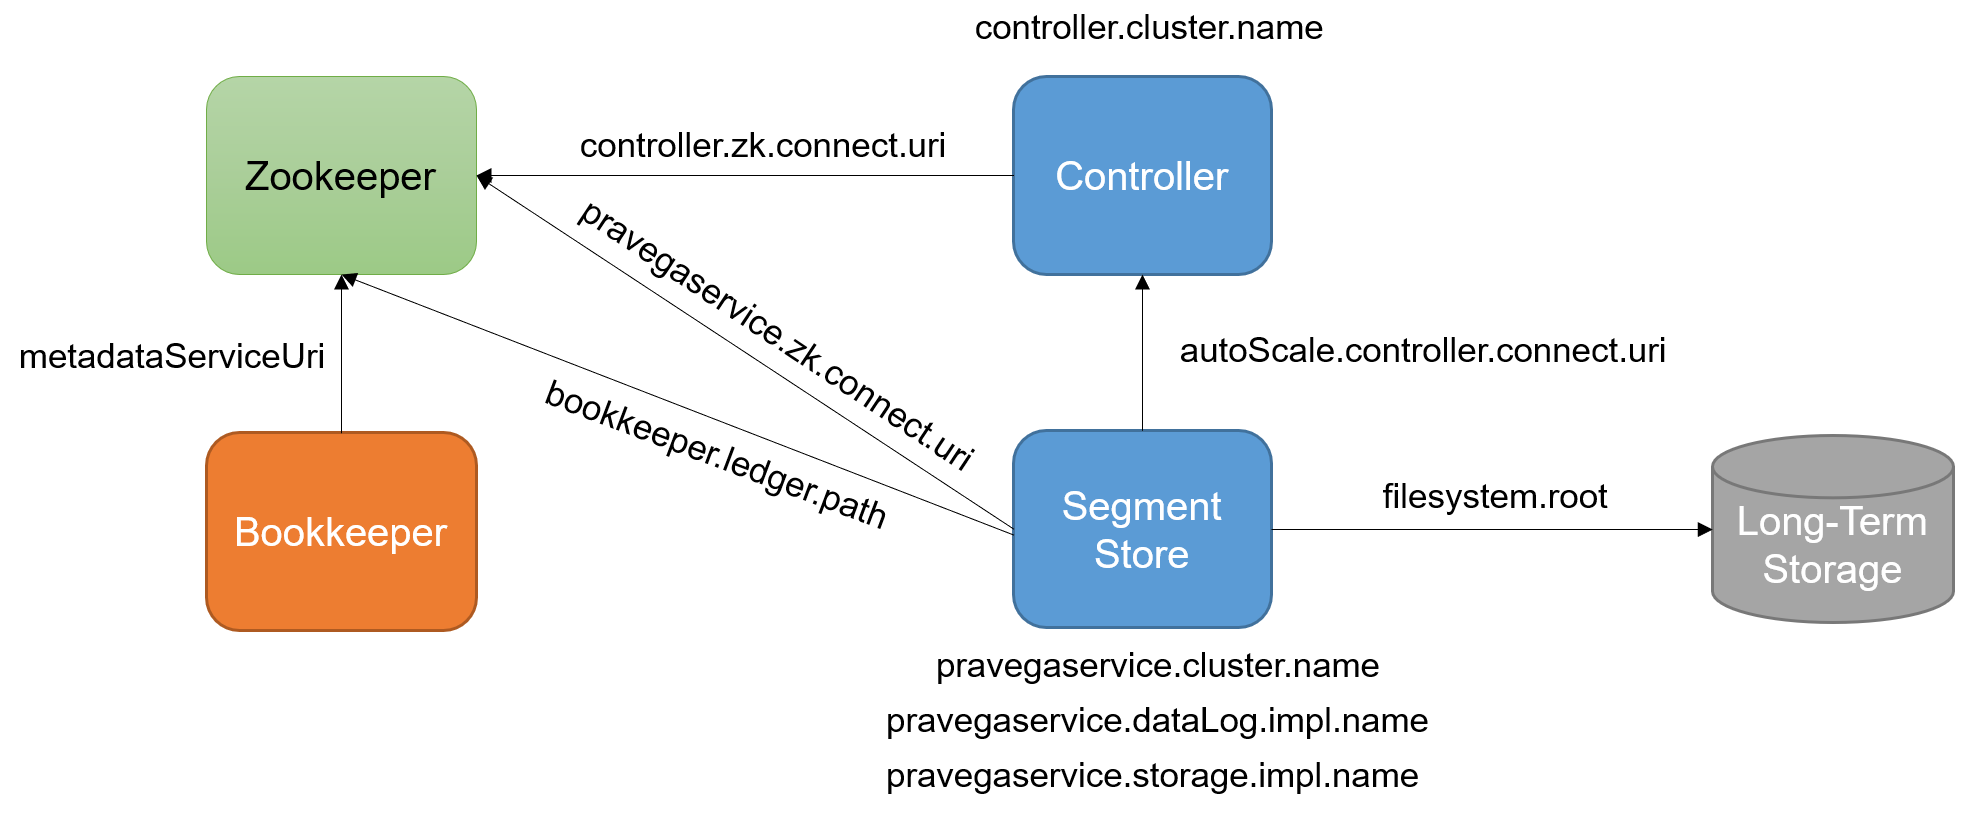
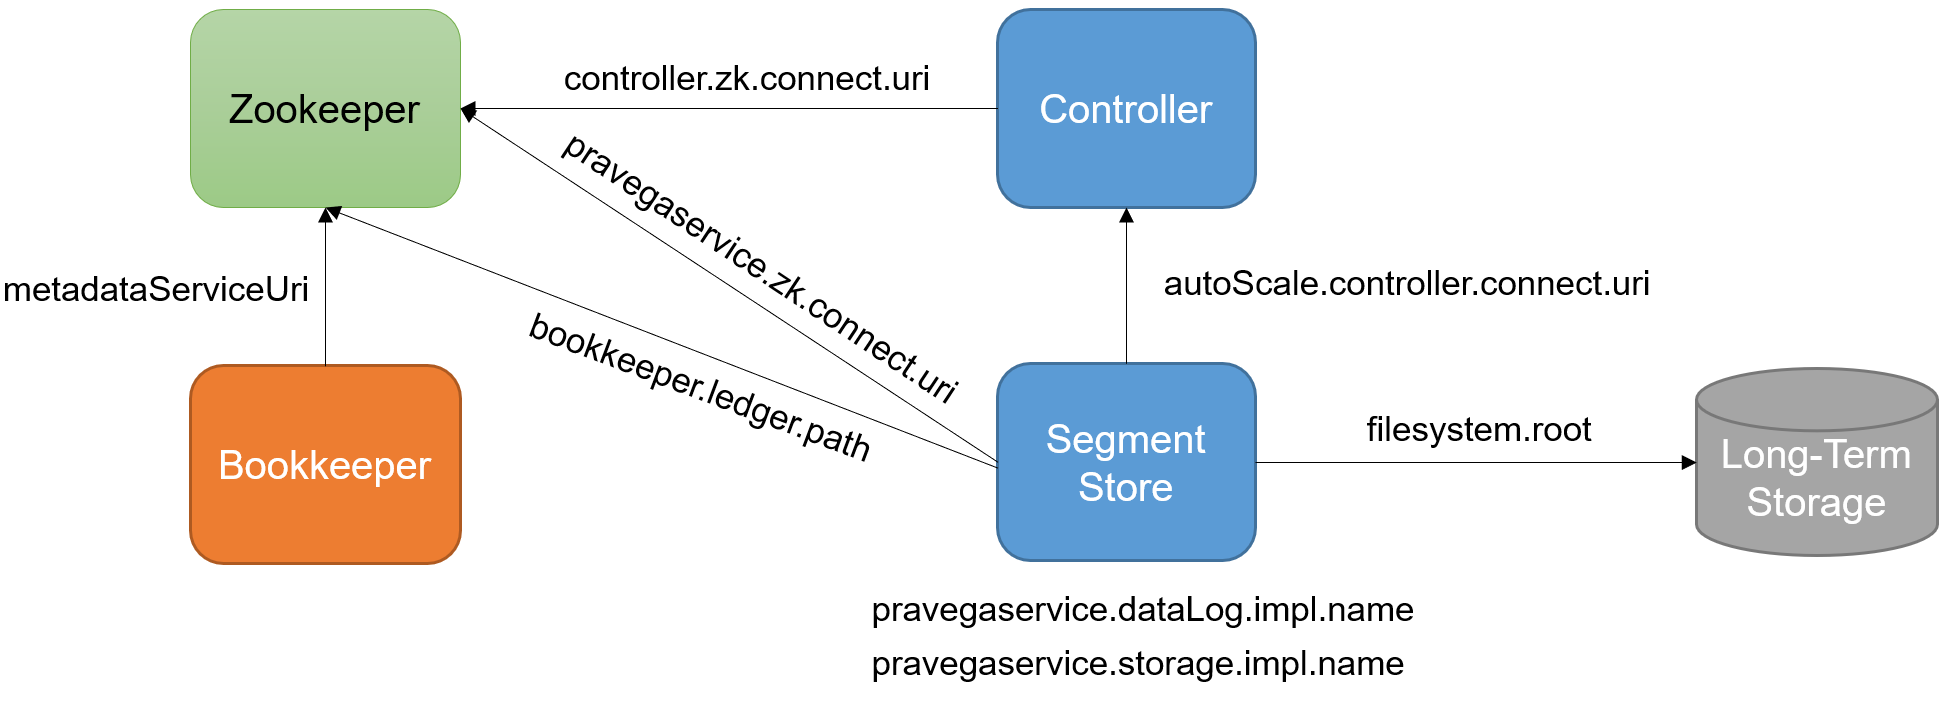
Working on Segment Store memory config

diff --git a/documentation/src/docs/configuration-and-provisioning.md b/documentation/src/docs/configuration-and-provisioning.md
@@ -162,9 +162,27 @@ which means that they would not be able to run IO. Therefore, we need to conside
 `[pravegaservice.container.count|controller.container.count]` is also imposing a limit on the maximum usable size of 
 the Pravega Cluster.   
 
-
-
 ## Segment Store Cache Size and Memory Settings
+
+In a Pravega Cluster, the Segment Store is perhaps the component that requires more effort in terms of memory configuration.
+A production-like cluster requires the memory settings to be defined correctly, or otherwise we could induce unnecessary
+instability in the system. In this section, the main configuration parameters we overview are the following:
+
+- **`pravegaservice.cache.size.max`**: Maximum size (in bytes) for the Local Shared Cache (shared by all Segment 
+Containers on this Segment Store instance). Valid values: Positive integer. Recommended values: Multiples of 1GB, 
+but less than XX:MaxDirectMemorySize. Choosing a lower size will conserve memory at the expense of a lot of cache misses 
+(resulting in Long Term Storage reads and possibly high latencies). Choosing a higher size will keep data in the cache 
+for longer, but at the expense of memory. The Segment Store uses a Direct Memory Cache backed by direct ByteBuffers, so 
+if XX:MaxDirectMemorySize is not set to a value higher than this one, the process will# eventually crash with an 
+OutOfMemoryError.
+
+- **`-Xmx`** (JVM SETTING):
+
+- **`-xx:MaxDirectMemorySize`** (JVM SETTING):
+
+ 
+
+![Segment Store Memory Configuration](img/segment-store-memory-configuration.png) 
 
 
 ## Durable Log Configuration: Bookkeeper
